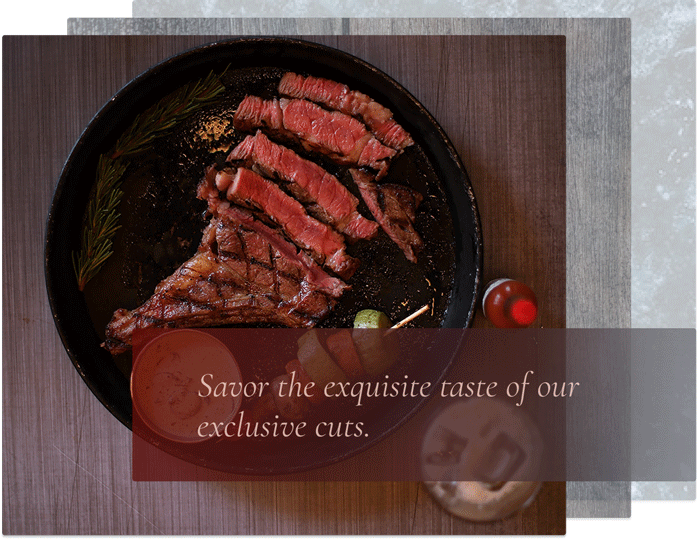
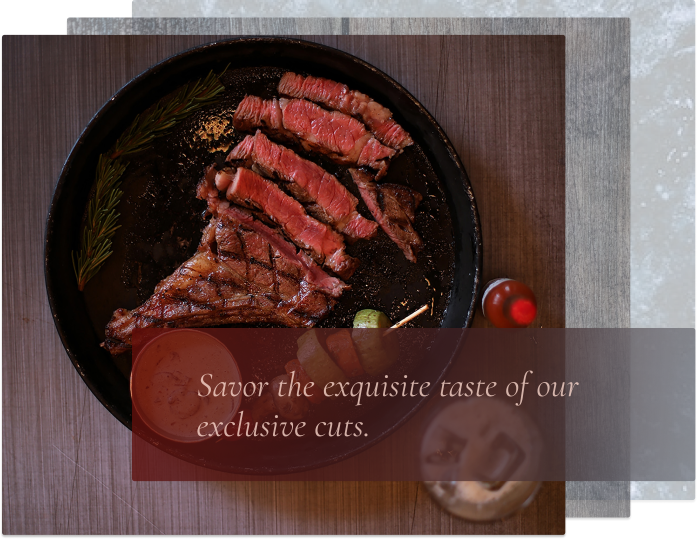
optimize mobile images

diff --git a/index.html b/index.html
@@ -74,7 +74,10 @@
                 <div class="container">
                     <div class="grid">
                         <div class="hero-section__images">
-                            <img src="img/cover.png" alt="Experience the highest standard of steakhouse dining in Vancouver, awarded with a prestigious Michelin rating.">
+                            <picture>
+                                <source media="(max-width: 480px)" srcset="img/cover_sm.png"> 
+                                <img src="img/cover.png" alt="Experience the highest standard of steakhouse dining in Vancouver, awarded with a prestigious Michelin rating.">
+                            </picture>
                         </div>
                         <div class="hero-section__text">
                             <h6>Experience the highest standard of steakhouse dining in Vancouver, awarded with a prestigious Michelin rating.</h6>
@@ -136,44 +139,58 @@
 
                         <div class="msnry-grid-item">
                             <a href="img/gallery1.jpg" data-lightbox="gallery" data-title="Experience the epitome of sophistication.">
-                                <img src="img/gallery1.jpg" data-src="img/gallery1.jpg" alt="Experience the epitome of sophistication." class="lazy">
+                                <picture>
+                                    <source media="(max-width: 480px)" srcset="img/gallery1_sm.jpg">
+                                    <img src="img/gallery1.jpg" data-src="img/gallery1.jpg" alt="Experience the epitome of sophistication." class="lazy">
+                                </picture>
                             </a>
                             <p>"Experience the epitome of sophistication."</p>
                         </div>
                         <div class="msnry-grid-item">
                             <a href="img/gallery2.jpg" data-lightbox="gallery" data-title="Indulge in the experience of refined dining.">
-                                <img src="img/gallery2.jpg" data-src="img/gallery2.jpg" alt="Indulge in the experience of refined dining." class="lazy">
+                                <picture>
+                                    <source media="(max-width: 480px)" srcset="img/gallery2_sm.jpg">
+                                    <img src="img/gallery2.jpg" data-src="img/gallery2.jpg" alt="Indulge in the experience of refined dining." class="lazy">
+                                </picture>
                             </a>
                             <p>"Indulge in the experience of refined dining."</p>
                         </div>
                         <div class="msnry-grid-item">
                             <a href="img/gallery3.jpg" data-lightbox="gallery" data-title="Experience the freshest top-grade steak.">
-                                <img src="img/gallery3.jpg" data-src="img/gallery3.jpg" alt="Experience the freshest top-grade steak." class="lazy">
+                                <picture>
+                                    <source media="(max-width: 480px)" srcset="img/gallery3_sm.jpg">
+                                    <img src="img/gallery3.jpg" data-src="img/gallery3.jpg" alt="Experience the freshest top-grade steak." class="lazy">
+                                </picture>
                             </a>
                             <p>"Experience the freshest top-grade steak."</p>
                         </div>
                         <div class="msnry-grid-item">
                             <a href="img/gallery4.jpg" data-lightbox="gallery" data-title="Expertly prepared by top local chefs.">
-                                <img src="img/gallery4.jpg" data-src="img/gallery4.jpg" alt="Expertly prepared by top local chefs." class="lazy">
+                                <picture>
+                                    <source media="(max-width: 480px)" srcset="img/gallery4_sm.jpg">
+                                    <img src="img/gallery4.jpg" data-src="img/gallery4.jpg" alt="Expertly prepared by top local chefs." class="lazy">
+                                </picture>
                             </a>
                             <p>"Expertly prepared by top local chefs."</p>
                         </div>
                         <div class="msnry-grid-item">
                             <a href="img/gallery5.jpg" data-lightbox="gallery" data-title="Indulge your senses with our dishes.">
-                                <img src="img/gallery5.jpg" data-src="img/gallery5.jpg" alt="Indulge your senses with our dishes." class="lazy">
+                                <picture>
+                                    <source media="(max-width: 480px)" srcset="img/gallery5_sm.jpg">
+                                    <img src="img/gallery5.jpg" data-src="img/gallery5.jpg" alt="Indulge your senses with our dishes." class="lazy">
+                                </picture>
                             </a>
                             <p>"Indulge your senses with our dishes."</p>
                         </div>
                         <div class="msnry-grid-item">
                             <a href="img/gallery6.jpg" data-lightbox="gallery" data-title="Delight in luxury with your loved ones.">
-                                <img src="img/gallery6.jpg" data-src="img/gallery6.jpg" alt="Delight in luxury with your loved ones." class="lazy">
+                                <picture>
+                                    <source media="(max-width: 480px)" srcset="img/gallery6_sm.jpg">                             <img src="img/gallery6.jpg" data-src="img/gallery6.jpg" alt="Delight in luxury with your loved ones." class="lazy">
+                                </picture>
                             </a>
                             <p>"Delight in luxury with your loved ones."</p>
                         </div>
                     </div>
-                    <!-- <div class="button-container">
-                        <a class="button-pink" id="gallery-button" href="#">View Gallery</a>
-                    </div> -->
                 </div>
             </div>
         </section>

diff --git a/js/script.js b/js/script.js
@@ -1,49 +1,4 @@
-// jQuery: change cover photo
-$(document).ready(function() {
-    function changeBackgroundImage() {
-        var windowWidth = $(window).width();
-        var imageUrl = '';
-
-        if (windowWidth <= 480) {
-            imageUrl = 'img/cover_sm.png';
-        } else {
-            imageUrl = 'img/cover.png';
-        }
-    }
-
-    // Call the function on page load
-    changeBackgroundImage();
-
-    // Call the function on window resize
-    $(window).resize(function() {
-        changeBackgroundImage();
-    });
-
-    function changeImageSources() {
-        var windowWidth = $(window).width();
-
-        $('.msnry-grid-item').each(function() {
-            var originalImageUrl = $(this).find('img').attr('src');
-            var smallImageUrl = originalImageUrl.replace('.jpg', '_sm.jpg');
-
-            if (windowWidth <= 480) {
-                $(this).find('img').attr('src', smallImageUrl);
-            } else {
-                $(this).find('img').attr('src', originalImageUrl);
-            }
-        });
-    }
-
-    // Call the function on page load
-    changeImageSources();
-
-    // Call the function on window resize
-    $(window).resize(function() {
-        changeImageSources();
-    });
-});
-
-// Masonry
+// Masonry plugin
 
 var grid = document.querySelector('.msnry-grid');
 
@@ -67,7 +22,7 @@ imagesLoaded( grid ).on( 'progress', function() {
     msnry.layout();
 });
 
-// Lightbox
+// Lightbox plugin
 lightbox.option({
     // Set the time it takes for the Lightbox container to animate its width and height when transition between different size images in 500ms
     'resizeDuration': 600,
@@ -122,32 +77,6 @@ window.addEventListener('scroll', function() {
       button.style.display = 'none';
     }
 });
-  
-// Custom cursor
-
-// var cursor = document.querySelector('.custom-cursor');
-// var mouseX = 0;
-// var mouseY = 0;
-// var delay = 10; // Adjust the delay value (in milliseconds) as desired
-
-// document.addEventListener('mousemove', function(event) {
-//   mouseX = event.clientX;
-//   mouseY = event.clientY;
-// });
-
-// function animateCursor() {
-//   var distX = mouseX - cursor.offsetLeft;
-//   var distY = mouseY - cursor.offsetTop;
-//   var posX = cursor.offsetLeft + (distX / delay);
-//   var posY = cursor.offsetTop + (distY / delay);
-
-//   cursor.style.left = posX + 'px';
-//   cursor.style.top = posY + 'px';
-
-//   requestAnimationFrame(animateCursor);
-// };
-
-// animateCursor();
 
 // Delay effect to navigating buttons
 var buttons = document.querySelectorAll('.nav-btns');
@@ -161,10 +90,10 @@ function handleClick(event) {
   setTimeout(function() {
     target.classList.remove('disabled');
     window.location.href = target.href;
-  }, 500); // Delay duration in milliseconds
+  }, 500);
 }
 
-// Snowflake
+// Snowflake mouse click effect
     document.addEventListener('click', function (event) {
     const snowContainer = document.querySelector('.snow-container');
     const snowflake = document.createElement('div');

diff --git a/css/main.css b/css/main.css
@@ -769,6 +769,10 @@ form {
     opacity: 0.7;
 }
 
+.site-footer p{
+    font-size: 1rem;
+}
+
 /* Popup-card */
 .popup-card {
     width: 60%;
@@ -821,31 +825,6 @@ form {
     50% { transform: translateY(-10px); }
     100% { transform: translateY(0); }
 }
-
-/* Custom cursor */
-/* .custom-cursor {
-    position: fixed;
-    top: -100%;
-    left: -100%;
-    width: 15px;
-    height: 15px;
-    background-color: transparent;
-    border: 2px solid var(--blue);
-    border-radius: 50%;
-    pointer-events: none;
-    z-index: 9999;
-    opacity: 0.3;
-    box-shadow: 0 0 3px 1px var(--blue);
-    animation: cursor-glow 1.5s infinite alternate;
-}   
-@keyframes cursor-glow {
-    0% {
-      box-shadow: 0 0 3px 1px var(--blue);
-    }
-    100% {
-      box-shadow: 0 0 4px 2px var(--blue);
-    }
-} */
 
 /* Media Queries for desktop screens, with width value following the common practice */
 @media (min-width: 1025px) {
